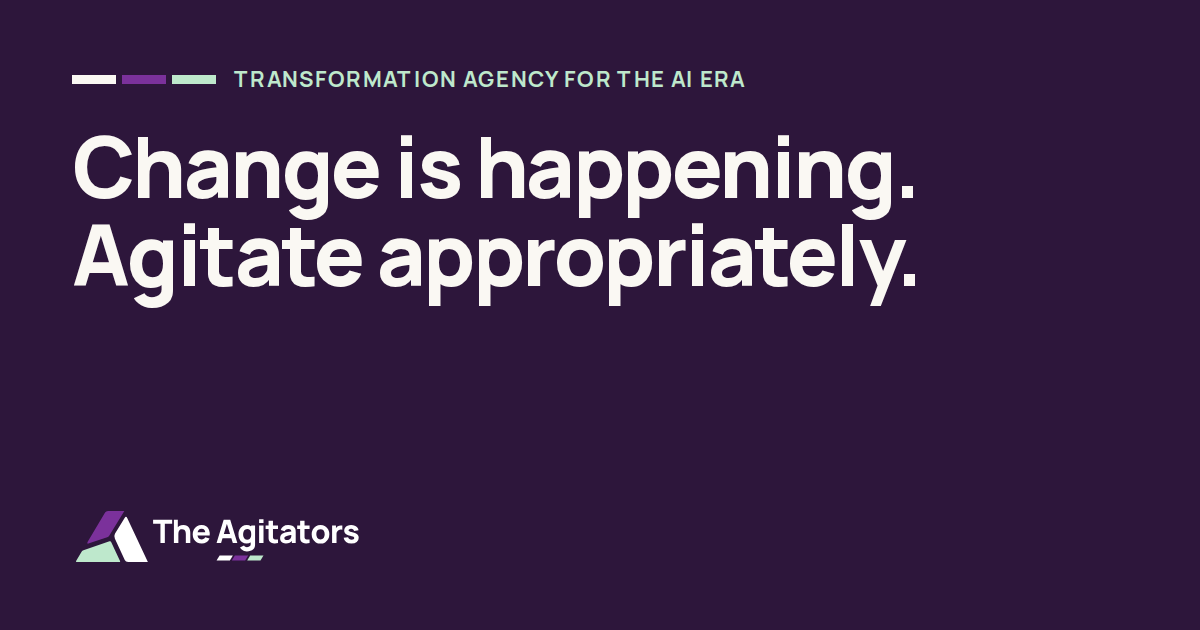
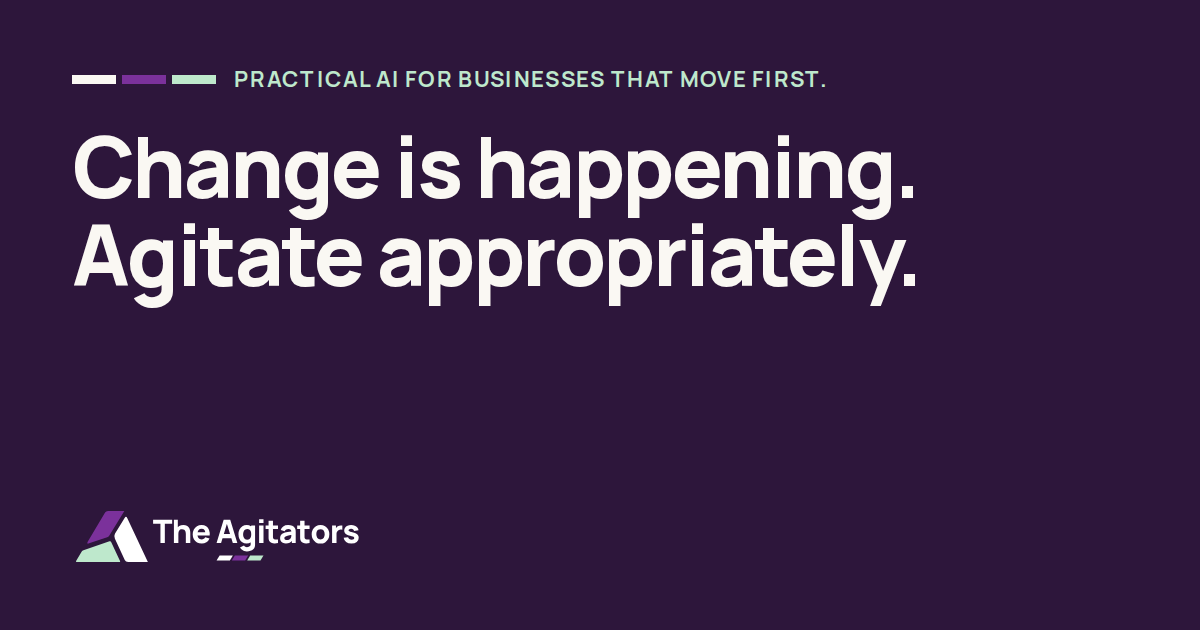
Apply phase 1 of the 17 and 19 October founder feedback
- Positioning: "Practical AI for businesses that move first." as the
  hero eyebrow and footer line; new meta and share description
- The change: three questions; adoption gap retitled, lines renamed, and
  the axis labels and years removed so it no longer reads as data
- First Efficiency renamed AI Enablement; Stay ahead and contact copy
- Efficiency picture labels; no "And" connector on small screens
- Team: bios with named employers, new tags, James's LinkedIn
- Portraits re-cropped so all three heads match in size and height
- Footer logo links to the top; remaining em dashes replaced
- Case studies carry a sign-off status; only approved ones show once the
  site launches. Travel study's sensitive-details wording softened
- Fix: the adoption gap chart was blank with reduced motion on

Claude-Session: https://claude.ai/code/session_01ToMb7PMuwWizzxoXCiExf4

Changed region(s): [[0.185, 0.0905, 0.6783, 0.1508]]

diff --git a/src/components/AdoptionGapChart.tsx b/src/components/AdoptionGapChart.tsx
@@ -4,9 +4,9 @@ import { motion } from "motion/react";
 import { usePrefersReducedMotion } from "@/lib/usePrefersReducedMotion";
 
 /**
- * The adoption gap: AI capability compounding while what organisations can
- * absorb barely moves. Conceptual, not plotted from data, so there are no
- * values to read off and no hover layer that would imply some.
+ * The adoption gap: what AI can do accelerating while what most teams know
+ * how to use barely moves. Conceptual, not plotted from data, so there are no
+ * axis values or years to read off, and no hover layer that would imply some.
  *
  * Curves are drawn in a 0–100 box with a stretched viewBox and non-scaling
  * strokes; labels are HTML, positioned by percentage, so text stays at
@@ -16,7 +16,6 @@ import { usePrefersReducedMotion } from "@/lib/usePrefersReducedMotion";
 const FIRST_YEAR = 2023;
 const LAST_YEAR = 2030;
 const NOW = 2026;
-const years = Array.from({ length: LAST_YEAR - FIRST_YEAR + 1 }, (_, i) => FIRST_YEAR + i);
 const xOf = (year: number) => ((year - FIRST_YEAR) / (LAST_YEAR - FIRST_YEAR)) * 100;
 
 // 0 = bottom of the plot, 1 = top.
@@ -52,27 +51,19 @@ export function AdoptionGapChart({ className = "" }: { className?: string }) {
 
   const nowX = xOf(NOW);
 
+  // The reduced-motion preference is only known after the first render. Keying
+  // on it remounts the chart, so motion values already started hidden are
+  // replaced by the static end state instead of staying invisible.
   return (
-    <div className={className}>
+    <div key={reduced ? "still" : "animated"} className={className}>
       <div
         role="img"
-        aria-label="Conceptual chart, 2023 to 2030. AI capability starts between low and medium and rises ever faster, to very high. What organisations can absorb starts very low and barely rises. The space between them, the adoption gap, widens every year; by 2030 that distance is the real challenge."
-        className="grid grid-cols-[auto_minmax(0,1fr)] grid-rows-[minmax(0,1fr)_auto] gap-x-3 gap-y-2"
+        aria-label="Conceptual chart. What AI can do rises ever faster. What most teams know how to use starts low and barely rises. The space between them, the adoption gap, widens over time, and that distance is the real challenge."
       >
-        {/* Y axis: qualitative, three anchors on the gridlines. */}
-        <div aria-hidden="true" className="label relative w-[5rem] whitespace-nowrap text-right leading-tight text-muted sm:w-[5.5rem]">
-          <span className="absolute right-0 top-0">Very high</span>
-          <span className="absolute right-0 top-1/2 -translate-y-1/2">Medium</span>
-          <span className="absolute bottom-0 right-0">Very low</span>
-        </div>
-
         <div aria-hidden="true" className="relative aspect-[4/3] sm:aspect-[16/8]">
           <svg viewBox="0 0 100 100" preserveAspectRatio="none" className="absolute inset-0 h-full w-full overflow-visible">
-            {/* Recessive grid: one rule per year, four levels. */}
+            {/* Recessive grid: levels only, no years, so nothing reads as a measured value. */}
             <g stroke="var(--color-divider)" strokeWidth="1" vectorEffect="non-scaling-stroke">
-              {years.map((year) => (
-                <line key={year} x1={xOf(year)} x2={xOf(year)} y1="0" y2="100" vectorEffect="non-scaling-stroke" />
-              ))}
               {[0, 25, 50, 75].map((y) => (
                 <line key={y} x1="0" x2="100" y1={y} y2={y} vectorEffect="non-scaling-stroke" />
               ))}
@@ -138,13 +129,13 @@ export function AdoptionGapChart({ className = "" }: { className?: string }) {
             className="absolute left-[1%] -translate-y-full pb-1.5 text-sm font-extrabold text-purple sm:text-base"
             style={{ top: `${(1 - capability(0.4)) * 100}%` }}
           >
-            AI capability
+            What AI can do
           </span>
           <span
             className="absolute left-[1%] mt-1 bg-white pr-1.5 text-sm font-extrabold text-aubergine sm:text-base"
             style={{ top: `${(1 - absorption(0)) * 100}%` }}
           >
-            What organisations absorb
+            What most teams know how to use
           </span>
 
           {/* The gap, named; its background hides the Now rule behind it. */}
@@ -180,24 +171,6 @@ export function AdoptionGapChart({ className = "" }: { className?: string }) {
           </span>
         </div>
 
-        {/* X axis: years, centred on their gridlines. */}
-        <div aria-hidden="true" />
-        <div aria-hidden="true" className="relative h-6 text-sm font-semibold text-muted tabular-nums">
-          {years.map((year, i) => (
-            <span
-              key={year}
-              className={[
-                "absolute top-0",
-                i === 0 ? "" : i === years.length - 1 ? "-translate-x-full" : "-translate-x-1/2",
-                // Fewer years on small screens, so labels never collide.
-                [0, 2, 4, years.length - 1].includes(i) ? "" : "hidden sm:inline",
-              ].join(" ")}
-              style={{ left: `${xOf(year)}%` }}
-            >
-              {year}
-            </span>
-          ))}
-        </div>
       </div>
     </div>
   );

diff --git a/src/content/team.ts b/src/content/team.ts
@@ -4,7 +4,7 @@ export const teamIntro = {
   eyebrow: "Who we are",
   headline: "Three practitioners, three angles on the same problem.",
   supporting:
-    "Not a pyramid. The people you meet are the people who do the work — which is why we choose our engagements carefully.",
+    "Not a pyramid. The people you meet are the people who do the work, which is why we choose our engagements carefully.",
 } as const;
 
 export const team: TeamMember[] = [
@@ -12,7 +12,7 @@ export const team: TeamMember[] = [
     id: "founder-one",
     name: "Lee Robson",
     role: "Co-Founder",
-    bio: "A passion for building AI-driven solutions to human problems informed by 25 years with startups and major brands.",
+    bio: "A passion for building AI-driven solutions to human problems, informed by 25 years with startups and major brands including Foxtel and MullenLowe.",
     expertise: ["Agency operations", "Client service", "Creative production"],
     // Treatment C: black and white on an offset block of the founder's colour. Rendered once from the original.
     photo: { src: "/team/founder-one.webp", alt: "Portrait of Lee Robson", offset: "purple" },
@@ -22,18 +22,19 @@ export const team: TeamMember[] = [
     id: "founder-two",
     name: "James Bridges",
     role: "Co-Founder",
-    bio: "Placeholder bio. A background in media businesses and organisational change, with a habit of asking what a process is actually for before improving it.",
-    expertise: ["Operating models", "Editorial & content", "Change programmes"],
+    bio: "25 years running streaming and pay-TV businesses at Amazon, iflix and Foxtel, now helping businesses make AI earn its keep.",
+    expertise: ["Media and streaming", "Operating models", "Growth strategy"],
     photo: { src: "/team/founder-two.webp", alt: "Portrait of James Bridges", offset: "mint" },
-    linkedin: "https://www.linkedin.com/",
+    linkedin: "https://www.linkedin.com/in/jamestbridges/",
   },
   {
     id: "founder-three",
     name: "Harris Hutkin",
     role: "Co-Founder",
-    bio: "Placeholder bio. Builds the things. Spends most of the week close enough to the technology to know what it can’t do yet.",
-    expertise: ["AI strategy", "Prototyping", "Internal tooling"],
+    bio: "Two decades leading product, data and marketing at Disney, Time Inc, Foxtel and NRMA, now spent taking AI from idea to production and leaving the team able to run it.",
+    expertise: ["AI strategy", "Knowledge assistants", "Product and data"],
     photo: { src: "/team/founder-three.webp", alt: "Portrait of Harris Hutkin", offset: "aubergine" },
+    // Placeholder until Harris sends his profile URL; the bare domain is skipped in structured data.
     linkedin: "https://www.linkedin.com/",
   },
 ];

diff --git a/src/content/caseStudies.ts b/src/content/caseStudies.ts
@@ -12,13 +12,15 @@ export const workIntro = {
  * its own page at /work/[slug].
  *
  * Sources: the agency program write-up (June–September 2026) and the
- * travel and tourism and television distribution case study drafts. Both
- * drafts are pending partner sign-off, and the television quote needs the
- * client's approval of its trimmed wording; confirm before launch.
+ * travel and tourism and television distribution case study drafts. All
+ * three are drafts until signed off (the television quote also needs the
+ * client's approval of its trimmed wording). Set `status: "approved"` once
+ * each is cleared; the site reads them through `published.ts`.
  */
 export const caseStudies: CaseStudy[] = [
   {
     slug: "creative-agency-ai-integration",
+    status: "draft",
     sector: "Creative agency",
     headline: "Hours handed back, with the judgement kept human",
     summary:
@@ -115,6 +117,7 @@ export const caseStudies: CaseStudy[] = [
   },
   {
     slug: "travel-retailer-knowledge-assistant",
+    status: "draft",
     sector: "Travel & tourism",
     headline: "Enquiries answered in seconds, not minutes",
     summary:
@@ -165,7 +168,7 @@ export const caseStudies: CaseStudy[] = [
     exposed: {
       headline: "The first build showed how deep the problem went",
       body: [
-        "The prototype failed in a useful way: perfect tone, invented facts. Retrieval over one monolithic manual can’t be trusted. The first grounded build found more. Rules duplicated with drifted wording, processes nobody had written down, and supplier passwords sitting inside searchable procedures.",
+        "The prototype failed in a useful way: perfect tone, invented facts. Retrieval over one monolithic manual can’t be trusted. The first grounded build found more. Rules duplicated with drifted wording, processes nobody had written down, and sensitive operational details sitting inside searchable procedures.",
         "So we restructured the knowledge into single-topic documents, made only approved content answerable, and taught the assistant to say “I couldn’t find that” instead of guessing.",
       ],
     },
@@ -200,6 +203,7 @@ export const caseStudies: CaseStudy[] = [
   },
   {
     slug: "television-sales-team-ai-tools",
+    status: "draft",
     sector: "Television distribution",
     headline: "A sales team trained, then tooled",
     summary:

diff --git a/src/content/site.ts b/src/content/site.ts
@@ -10,10 +10,9 @@ export const site = {
   // Brand guidelines: standard title case, never "AGI" in capitals.
   name: "The Agitators",
   tagline: "Change is happening. Agitate appropriately.",
-  positioningLine:
-    "A transformation agency helping organisations redesign how they work, with AI as the lever, not the point.",
+  positioningLine: "Practical AI for businesses that move first.",
   description:
-    "The Agitators is a transformation agency helping organisations redesign how they work, with AI as the lever, not the point.",
+    "Practical AI for founder-led businesses and SMEs: we find where AI earns its place, build the tools and train your people to run them.",
   email: "info@theagitators.com.au",
   /** Company page. Leave as the bare domain until it exists; links and structured data skip it. */
   linkedin: "https://www.linkedin.com/",
@@ -29,7 +28,7 @@ export const nav: NavItem[] = [
 ];
 
 export const hero = {
-  eyebrow: "Transformation agency for the AI era",
+  eyebrow: "Practical AI for businesses that move first.",
   headline: ["Change is happening.", "Agitate appropriately."],
   /** Options for the founders to choose between (October 2026 review). */
   headlineAlternates: [
@@ -45,7 +44,7 @@ export const hero = {
 
 export const finalCta = {
   eyebrow: "Contact",
-  headline: "Something worth changing?",
+  headline: "Ready to put AI to work?",
   supporting:
     "Tell us what’s slow, expensive or stuck. If we’re not the right people, we’ll say so and point you somewhere better.",
   action: { label: "Start a conversation", subject: "Starting a conversation" },

diff --git a/src/content/why.ts b/src/content/why.ts
@@ -8,14 +8,13 @@ export const why = {
   ],
   /** The unanswered questions, rendered as an editorial list. */
   questions: [
-    "Which opportunities actually matter to this business",
     "How to get from experiments to something in everyday use",
     "How to redesign a process with AI at its core",
     "How to build team capability that outlasts the current tools",
   ],
   gap: {
     label: "The adoption gap",
-    headline: "Capability compounds. Absorption doesn’t.",
+    headline: "What AI can do is accelerating. What most teams know isn’t.",
     body: "Every year the tools can do more. What a business can take on, through its people, processes and habits, moves far more slowly. The space between the two lines is where advantage is won or lost.",
   },
   closer: "That gap, between knowing something can be done and knowing what to do on Monday, is where we work.",

diff --git a/src/components/OutcomesSection.tsx b/src/components/OutcomesSection.tsx
@@ -151,7 +151,7 @@ export function OutcomesSection() {
               side by side, in the gap when stacked. */}
           <span
             aria-hidden="true"
-            className="label relative z-10 mx-auto -my-9 flex h-16 w-16 items-center justify-center rounded-full border-4 border-paper bg-purple text-white md:absolute md:top-1/2 md:left-1/2 md:m-0 md:-translate-x-1/2 md:-translate-y-1/2"
+            className="label relative z-10 hidden h-16 w-16 items-center justify-center rounded-full border-4 border-paper bg-purple text-white md:absolute md:flex md:top-1/2 md:left-1/2 md:m-0 md:-translate-x-1/2 md:-translate-y-1/2"
           >
             And
           </span>

diff --git a/src/content/products.ts b/src/content/products.ts
@@ -28,11 +28,11 @@ export const products: Product[] = [
     ],
   },
   {
-    id: "efficiency",
+    id: "enablement",
     quote: "We’ve got one use case to get right.",
-    name: "First Efficiency",
+    name: "AI Enablement",
     summary:
-      "For one process that’s slow, expensive or stuck. We work out what to change, show it working on your real work, and make it stick.",
+      "For a critical process that’s slow, expensive or stuck. We work out what to change, show it working on your real work, and make it stick.",
     includes: [
       "The process mapped and costed",
       "A redesign that uses AI where it earns its place",

diff --git a/src/components/SiteFooter.tsx b/src/components/SiteFooter.tsx
@@ -10,7 +10,9 @@ export function SiteFooter() {
       <div className="shell">
         <div className="grid gap-x-10 gap-y-12 lg:grid-cols-12">
           <div className="lg:col-span-5">
-            <Logo variant="reversed" className="w-[246px]" />
+            <Link href="/#top" className="-m-1 inline-block rounded-sm p-1" aria-label={`${site.name}, back to top`}>
+              <Logo variant="reversed" className="w-[246px]" />
+            </Link>
             <p className="mt-6 max-w-[36ch] text-base leading-relaxed text-paper/80">{site.positioningLine}</p>
           </div>
 

diff --git a/src/app/layout.tsx b/src/app/layout.tsx
@@ -15,13 +15,13 @@ const manrope = Manrope({
 export const metadata: Metadata = {
   metadataBase: new URL(site.url),
   title: {
-    default: `${site.name} — ${site.tagline}`,
-    template: `%s — ${site.name}`,
+    default: `${site.name} · ${site.tagline}`,
+    template: `%s · ${site.name}`,
   },
   description: site.description,
   alternates: { canonical: "/" },
   openGraph: {
-    title: `${site.name} — ${site.tagline}`,
+    title: `${site.name} · ${site.tagline}`,
     description: site.description,
     type: "website",
     url: "/",

diff --git a/src/components/ProcessRoute.tsx b/src/components/ProcessRoute.tsx
@@ -74,7 +74,7 @@ export function ProcessRoute() {
             <RouteMap active={active} />
             <div className="mt-3 flex items-center justify-between gap-4">
               <p className="label text-muted">
-                {current.step} — <span className="text-aubergine">{current.title}</span>
+                {current.step} · <span className="text-aubergine">{current.title}</span>
               </p>
               <div className="flex items-center gap-1.5" aria-hidden="true">
                 {processSteps.map((step, index) => (

diff --git a/src/components/SiteHeader.tsx b/src/components/SiteHeader.tsx
@@ -78,7 +78,7 @@ export function SiteHeader() {
     >
       <div className="shell flex h-[var(--header-h)] items-center justify-between gap-6">
         {/* Guidelines minimum for the full horizontal lockup: 180px. */}
-        <Link href="/#top" className="-m-1 rounded-sm p-1" aria-label={`${site.name} — home`}>
+        <Link href="/#top" className="-m-1 rounded-sm p-1" aria-label={`${site.name}, home`}>
           <Logo className="w-[201px] lg:w-[219px]" />
         </Link>
 

diff --git a/src/content/outcomes.ts b/src/content/outcomes.ts
@@ -19,7 +19,7 @@ export const outcomes: Outcome[] = [
     title: "Efficiency AI",
     description:
       "The work you already do, faster and with less effort. Hours back from the repeatable tasks, so people spend the week on what they’re good at.",
-    legend: ["Repeatable tasks", "Work people are good at"],
+    legend: ["Repeatable tasks, handed to AI", "Your team’s best work, amplified"],
   },
   {
     id: "opportunity",
